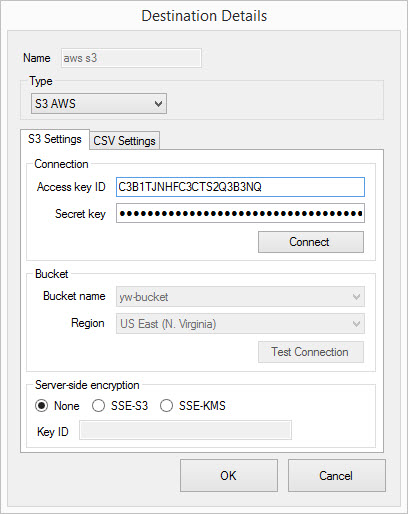
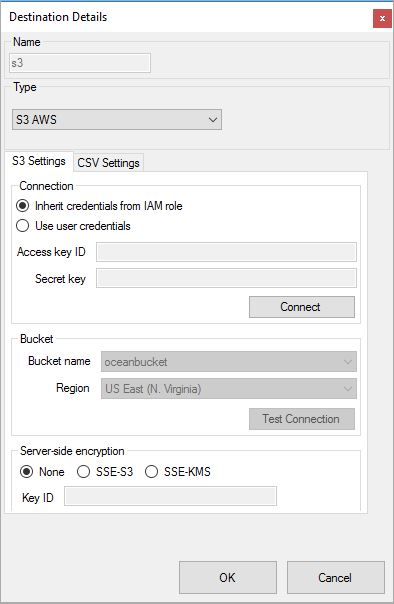
XU:EN: Updated S3 destination for IAM role

diff --git a/content/_en/xtract-universal/xu-destinations/amazon-aws-s3/requirements.md b/content/_en/xtract-universal/xu-destinations/amazon-aws-s3/requirements.md
@@ -13,15 +13,16 @@ old_url: /Xtract-Universal-EN/default.aspx?pageid=requirements6
 
 You'll need:
 - an Amazon Web Services (AWS) Account.
-- the "[Access Keys](https://docs.aws.amazon.com/IAM/latest/UserGuide/id_credentials_access-keys.html)" of your AWS user at hand. These Access Keys consist of  "access key ID" and "secret access key".
+- **Either** the "[Access Keys](https://docs.aws.amazon.com/IAM/latest/UserGuide/id_credentials_access-keys.html)" (consisting of "access key ID" and "secret access key") of your AWS user at hand. **Or** an IAM role attached to the [EC2 instance](https://docs.aws.amazon.com/IAM/latest/UserGuide/id_roles_use_switch-role-ec2.html) Xtract Universal is running on.
 - an S3 bucket, in which you can upload data.
-- The user needs at least the following permissions on AWS: Read/Write and ListAllBuckets. Please grant these rights in the User Policy. You can limit these rights to certain buckets only.
+- Sufficient permissions for list, read and write activities on S3. Please grant these rights in the User Policy. You can limit these rights to certain buckets only. The permissions in below screenshot worked in our environment.
+![IAM_permissions_for_S3_destination](img/content/xu/S3_desination_IAM_permissions.png){:class="img-responsive"}
 
 **Note:**<br>
 Xtract Universal uses so called [Multipart](https://docs.aws.amazon.com/AmazonS3/latest/dev/mpuoverview.html) upload for uploading data to S3. Data extracted from SAP is uploaded to S3 not as one big chunk of data but in smaller parts. These parts are buffered on the S3 side. If the extraction is successful, those parts are assembled by S3 into one file. While the extraction is still running this file is not visible on S3.
 
 In case the extraction fails, for example because of an exception in the Xtract Universal software, Xtract Universal will take care that the already uploaded parts will be deleted from S3. In case of an "uncontrolled" extraction failure, for example due to network issues, Xtract Universal won't be able to delete those uploaded parts from S3.
 
-Because of this, it's recommended to change the settings on S3 in a way that will trigger the automatic deletion of unused multiparts, e.g. after a day. You will find this setting by selecting a bucket and opening the Management tab. Select "Lifecycle" and "Add lifecycle rule" and create a rule for deleting unused multiparts.
+We would therefore recommend to change the settings on S3 in a way that will trigger the automatic deletion of unused multiparts, e.g. after a day. You will find this setting by selecting a bucket and opening the "Management" tab. Select "Lifecycle" and "Add lifecycle rule" and create a rule for deleting unused multiparts.
 
 ![S3_Multipart_Rule](/img/content/S3_Multipart_Rule.png){:class="img-responsive"}

diff --git a/content/_en/xtract-universal/xu-destinations/amazon-aws-s3/connection.md b/content/_en/xtract-universal/xu-destinations/amazon-aws-s3/connection.md
@@ -16,6 +16,9 @@ The following settings can be made when setting up an AWS S3 connection.
 
 ![XU_S3_DestinationDetails](/img/content/XU_S3_DestinationDetails.jpg){:class="img-responsive"}
 
+**Inherit Credentials from IAM role**
+The credentials and permissions of the IAM role, that has been assigned to the [EC2 instance](https://docs.aws.amazon.com/IAM/latest/UserGuide/id_roles_use_switch-role-ec2.html) which Xtract Universal is running on, will be used for authentication. 
+
 **Access key ID and Secret key**<br>
 This is how you authenticate against Amazon AWS. You can determine these values via AWS Identiy and Access Managment ([IAM](https://console.aws.amazon.com/iam/home#/home)).
 Please see [AWS documentation](https://docs.aws.amazon.com/IAM/latest/UserGuide/id_credentials_access-keys.html) for further information.
